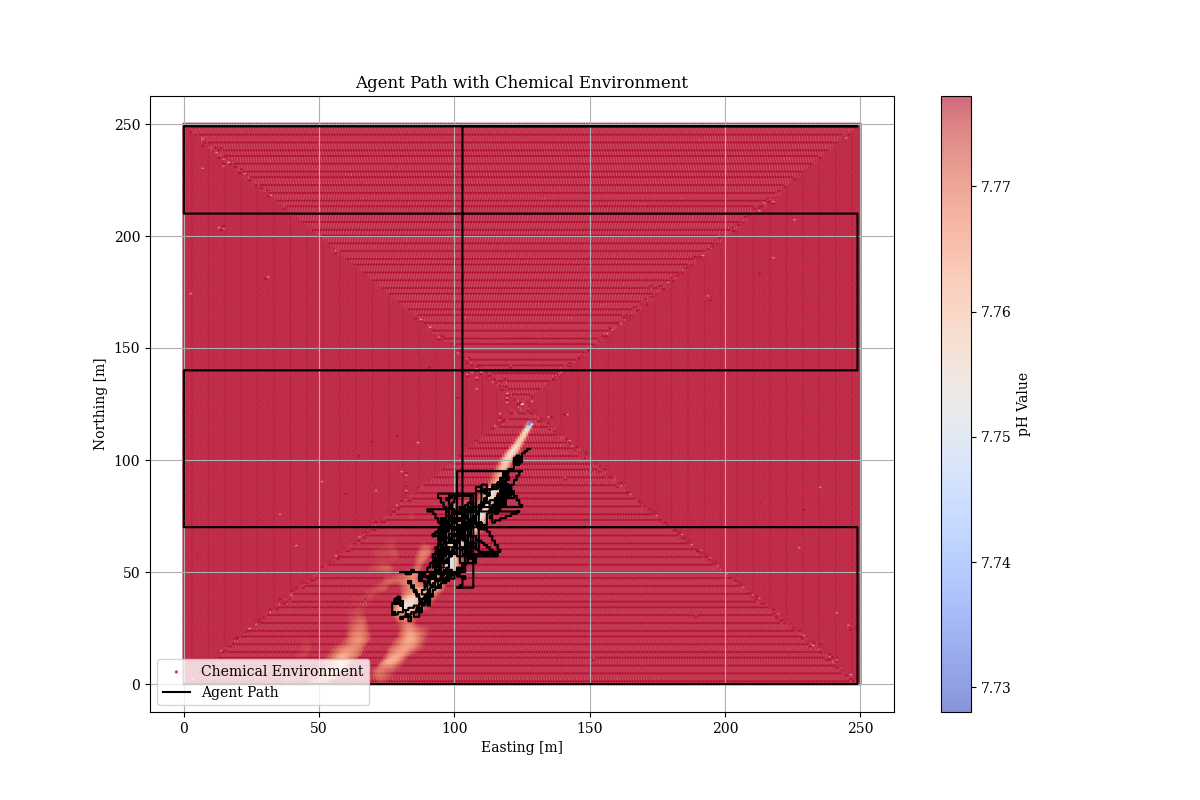
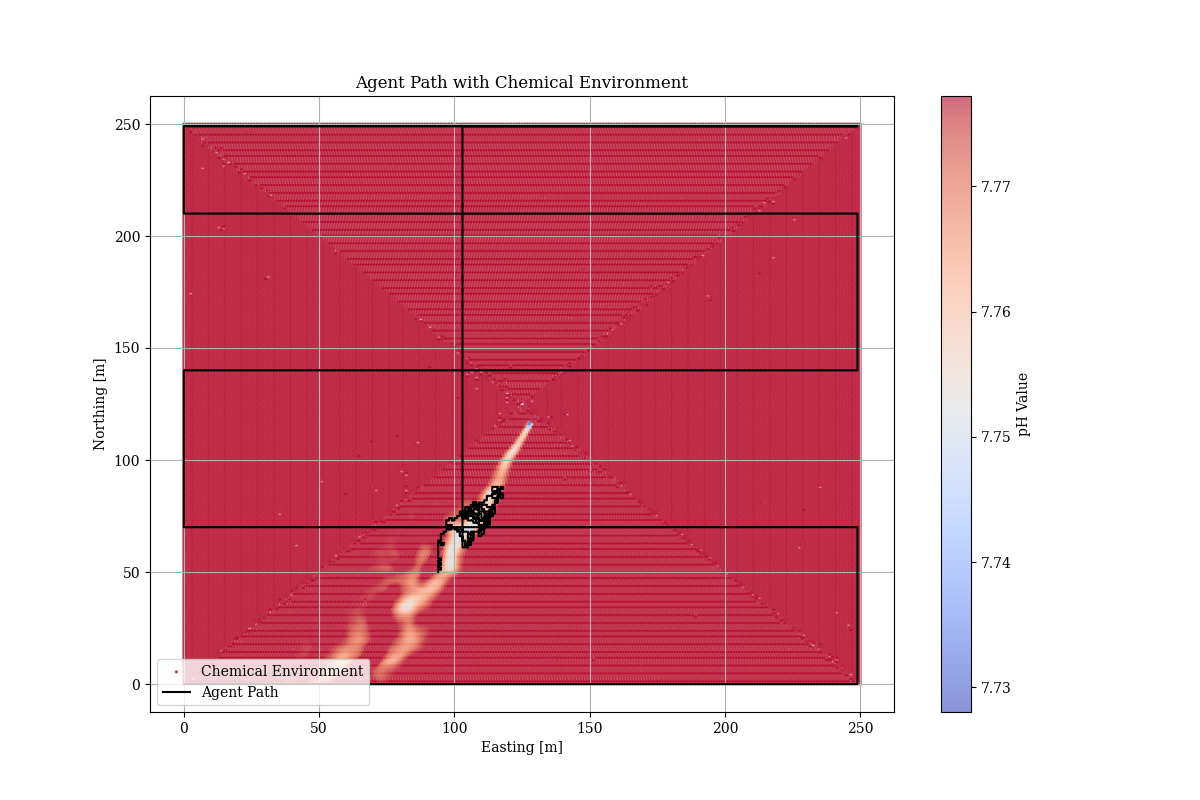
fuck all

Changed region(s): [[0.3083, 0.5625, 0.4625, 0.7812]]

diff --git a/src/Q_simulator.py b/src/Q_simulator.py
@@ -189,8 +189,8 @@ def plot_results(reward_func, policy_func, lawn_size, plot_depth, training_depth
         sim_file = list(fetch_sim_files())[1]
         env = Q_Environment(sim_file, depth=plot_depth)
         sim = Q_Simulator(env)
-        for idx, q_table  in enumerate(q_tables):
-            gas_accuracy: float = sim.test_agent(reward_func=reward_func, policy=policy_func, q_table=q_table, max_steps=500)
+        for idx, q_table  in enumerate(q_tables, start=1):
+            gas_accuracy: float = sim.test_agent(reward_func=reward_funcs.reward_trace_area, policy=policy_funcs.episilon_greedy, q_table=q_table)
             episodes.append(idx)
             gas_accuracies.append(gas_accuracy)
             if idx in episodes_numbers_to_plot:
